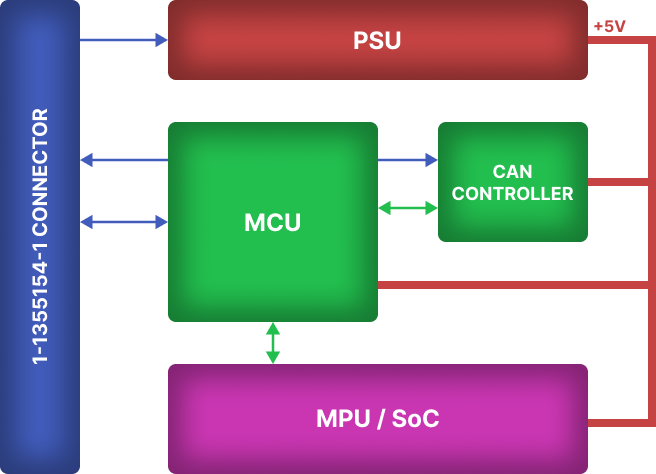
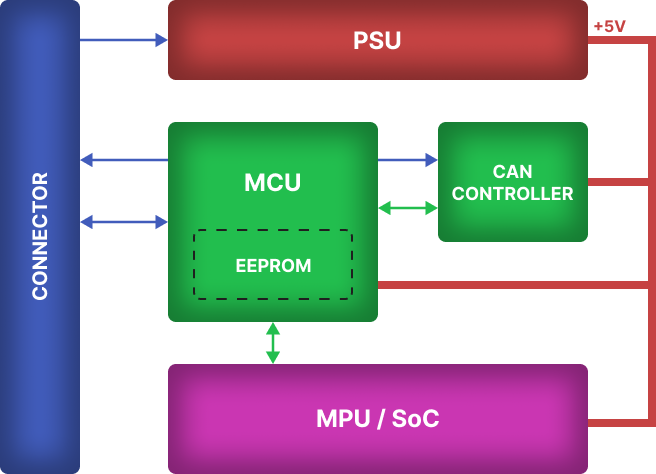
Update workflow diagram

diff --git a/README.md b/README.md
@@ -16,7 +16,7 @@
 
 <h1 align="center">
   <a href="https://github.com/marcobackup/VehicleCockpitExtensionModule/">
-    <img src="https://github.com/marcobackup/VehicleCockpitExtensionModule/blob/main/docs/UIScreenshot/home_red.png?raw=true" alt="VCEM">
+    <img src="https://github.com/marcobackup/VehicleCockpitExtensionModule/blob/main/docs/UIScreenshot/homeRed.png?raw=true" alt="VCEM">
   </a>
 </h1>
 
@@ -37,3 +37,12 @@ The **MCU** is responsible for **sniffing the packets** from the CAN bus, **proc
 The **processed CAN packets** and the **system settings** are **sent** to the MPU / SoC.
 
 Instead, the **MPU / SoC** takes care of deserializing the can frames and **displaying** them on a UI built with qt creator or **starting some system routines**.
+
+
+## Diagram
+Here's a system diagram to explain the system workflow
+<h1 align="center">
+  <a href="https://github.com/marcobackup/VehicleCockpitExtensionModule/">
+    <img src="https://github.com/marcobackup/VehicleCockpitExtensionModule/blob/main/docs/VCEMDiagramWorkflow.png?raw=true" alt="VCEM">
+  </a>
+</h1>
